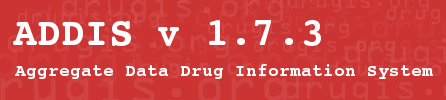
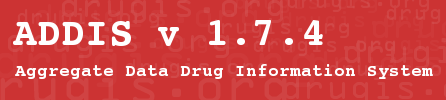
Automated packaging changes for 1.7.4 release.

Changed region(s): [[0.6704, 0.18, 0.7287, 0.48]]

diff --git a/src/main/java/org/drugis/addis/entities/relativeeffect/TransformedStudentTBase.java b/src/main/java/org/drugis/addis/entities/relativeeffect/TransformedStudentTBase.java
@@ -1,3 +1,27 @@
+/*
+ * This file is part of ADDIS (Aggregate Data Drug Information System).
+ * ADDIS is distributed from http://drugis.org/.
+ * Copyright (C) 2009 Gert van Valkenhoef, Tommi Tervonen.
+ * Copyright (C) 2010 Gert van Valkenhoef, Tommi Tervonen, 
+ * Tijs Zwinkels, Maarten Jacobs, Hanno Koeslag, Florin Schimbinschi, 
+ * Ahmad Kamal, Daniel Reid.
+ * Copyright (C) 2011 Gert van Valkenhoef, Ahmad Kamal, 
+ * Daniel Reid, Florin Schimbinschi.
+ *
+ * This program is free software: you can redistribute it and/or modify
+ * it under the terms of the GNU General Public License as published by
+ * the Free Software Foundation, either version 3 of the License, or
+ * (at your option) any later version.
+ *
+ * This program is distributed in the hope that it will be useful,
+ * but WITHOUT ANY WARRANTY; without even the implied warranty of
+ * MERCHANTABILITY or FITNESS FOR A PARTICULAR PURPOSE.  See the
+ * GNU General Public License for more details.
+ *
+ * You should have received a copy of the GNU General Public License
+ * along with this program.  If not, see <http://www.gnu.org/licenses/>.
+ */
+
 package org.drugis.addis.entities.relativeeffect;
 
 import org.apache.commons.math.MathException;

diff --git a/src/main/java/org/drugis/addis/presentation/ListeningCharacteristicHolder.java b/src/main/java/org/drugis/addis/presentation/ListeningCharacteristicHolder.java
@@ -1,6 +1,27 @@
-/**
- * 
+/*
+ * This file is part of ADDIS (Aggregate Data Drug Information System).
+ * ADDIS is distributed from http://drugis.org/.
+ * Copyright (C) 2009 Gert van Valkenhoef, Tommi Tervonen.
+ * Copyright (C) 2010 Gert van Valkenhoef, Tommi Tervonen, 
+ * Tijs Zwinkels, Maarten Jacobs, Hanno Koeslag, Florin Schimbinschi, 
+ * Ahmad Kamal, Daniel Reid.
+ * Copyright (C) 2011 Gert van Valkenhoef, Ahmad Kamal, 
+ * Daniel Reid, Florin Schimbinschi.
+ *
+ * This program is free software: you can redistribute it and/or modify
+ * it under the terms of the GNU General Public License as published by
+ * the Free Software Foundation, either version 3 of the License, or
+ * (at your option) any later version.
+ *
+ * This program is distributed in the hope that it will be useful,
+ * but WITHOUT ANY WARRANTY; without even the implied warranty of
+ * MERCHANTABILITY or FITNESS FOR A PARTICULAR PURPOSE.  See the
+ * GNU General Public License for more details.
+ *
+ * You should have received a copy of the GNU General Public License
+ * along with this program.  If not, see <http://www.gnu.org/licenses/>.
  */
+
 package org.drugis.addis.presentation;
 
 import java.beans.PropertyChangeEvent;

diff --git a/src/test/java/org/drugis/addis/util/D80TableGeneratorTest.java b/src/test/java/org/drugis/addis/util/D80TableGeneratorTest.java
@@ -1,3 +1,27 @@
+/*
+ * This file is part of ADDIS (Aggregate Data Drug Information System).
+ * ADDIS is distributed from http://drugis.org/.
+ * Copyright (C) 2009 Gert van Valkenhoef, Tommi Tervonen.
+ * Copyright (C) 2010 Gert van Valkenhoef, Tommi Tervonen, 
+ * Tijs Zwinkels, Maarten Jacobs, Hanno Koeslag, Florin Schimbinschi, 
+ * Ahmad Kamal, Daniel Reid.
+ * Copyright (C) 2011 Gert van Valkenhoef, Ahmad Kamal, 
+ * Daniel Reid, Florin Schimbinschi.
+ *
+ * This program is free software: you can redistribute it and/or modify
+ * it under the terms of the GNU General Public License as published by
+ * the Free Software Foundation, either version 3 of the License, or
+ * (at your option) any later version.
+ *
+ * This program is distributed in the hope that it will be useful,
+ * but WITHOUT ANY WARRANTY; without even the implied warranty of
+ * MERCHANTABILITY or FITNESS FOR A PARTICULAR PURPOSE.  See the
+ * GNU General Public License for more details.
+ *
+ * You should have received a copy of the GNU General Public License
+ * along with this program.  If not, see <http://www.gnu.org/licenses/>.
+ */
+
 package org.drugis.addis.util;
 
 import static org.junit.Assert.assertNotNull;

diff --git a/src/main/java/org/drugis/addis/gui/builder/D80ReportView.java b/src/main/java/org/drugis/addis/gui/builder/D80ReportView.java
@@ -1,3 +1,27 @@
+/*
+ * This file is part of ADDIS (Aggregate Data Drug Information System).
+ * ADDIS is distributed from http://drugis.org/.
+ * Copyright (C) 2009 Gert van Valkenhoef, Tommi Tervonen.
+ * Copyright (C) 2010 Gert van Valkenhoef, Tommi Tervonen, 
+ * Tijs Zwinkels, Maarten Jacobs, Hanno Koeslag, Florin Schimbinschi, 
+ * Ahmad Kamal, Daniel Reid.
+ * Copyright (C) 2011 Gert van Valkenhoef, Ahmad Kamal, 
+ * Daniel Reid, Florin Schimbinschi.
+ *
+ * This program is free software: you can redistribute it and/or modify
+ * it under the terms of the GNU General Public License as published by
+ * the Free Software Foundation, either version 3 of the License, or
+ * (at your option) any later version.
+ *
+ * This program is distributed in the hope that it will be useful,
+ * but WITHOUT ANY WARRANTY; without even the implied warranty of
+ * MERCHANTABILITY or FITNESS FOR A PARTICULAR PURPOSE.  See the
+ * GNU General Public License for more details.
+ *
+ * You should have received a copy of the GNU General Public License
+ * along with this program.  If not, see <http://www.gnu.org/licenses/>.
+ */
+
 package org.drugis.addis.gui.builder;
 
 import java.awt.Component;

diff --git a/src/main/java/org/drugis/addis/util/D80TableGenerator.java b/src/main/java/org/drugis/addis/util/D80TableGenerator.java
@@ -1,3 +1,27 @@
+/*
+ * This file is part of ADDIS (Aggregate Data Drug Information System).
+ * ADDIS is distributed from http://drugis.org/.
+ * Copyright (C) 2009 Gert van Valkenhoef, Tommi Tervonen.
+ * Copyright (C) 2010 Gert van Valkenhoef, Tommi Tervonen, 
+ * Tijs Zwinkels, Maarten Jacobs, Hanno Koeslag, Florin Schimbinschi, 
+ * Ahmad Kamal, Daniel Reid.
+ * Copyright (C) 2011 Gert van Valkenhoef, Ahmad Kamal, 
+ * Daniel Reid, Florin Schimbinschi.
+ *
+ * This program is free software: you can redistribute it and/or modify
+ * it under the terms of the GNU General Public License as published by
+ * the Free Software Foundation, either version 3 of the License, or
+ * (at your option) any later version.
+ *
+ * This program is distributed in the hope that it will be useful,
+ * but WITHOUT ANY WARRANTY; without even the implied warranty of
+ * MERCHANTABILITY or FITNESS FOR A PARTICULAR PURPOSE.  See the
+ * GNU General Public License for more details.
+ *
+ * You should have received a copy of the GNU General Public License
+ * along with this program.  If not, see <http://www.gnu.org/licenses/>.
+ */
+
 package org.drugis.addis.util;
 
 import java.io.BufferedReader;
